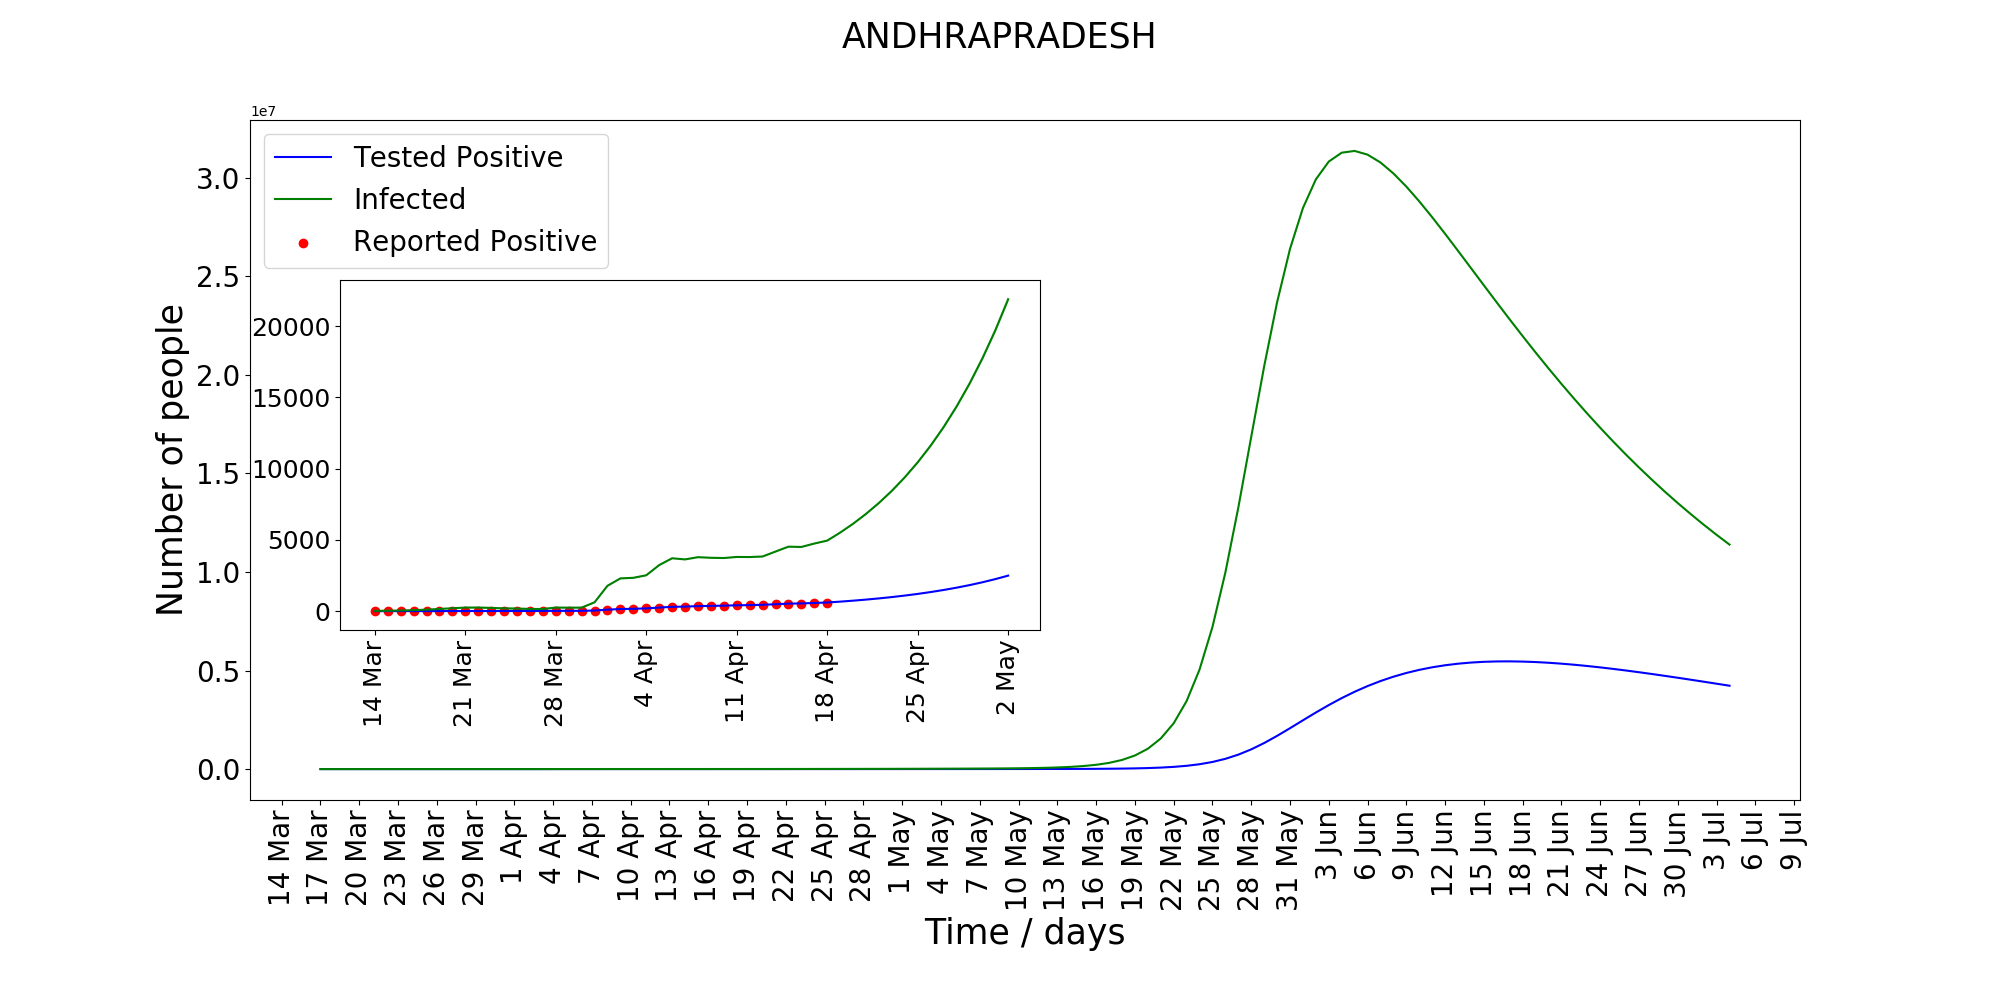
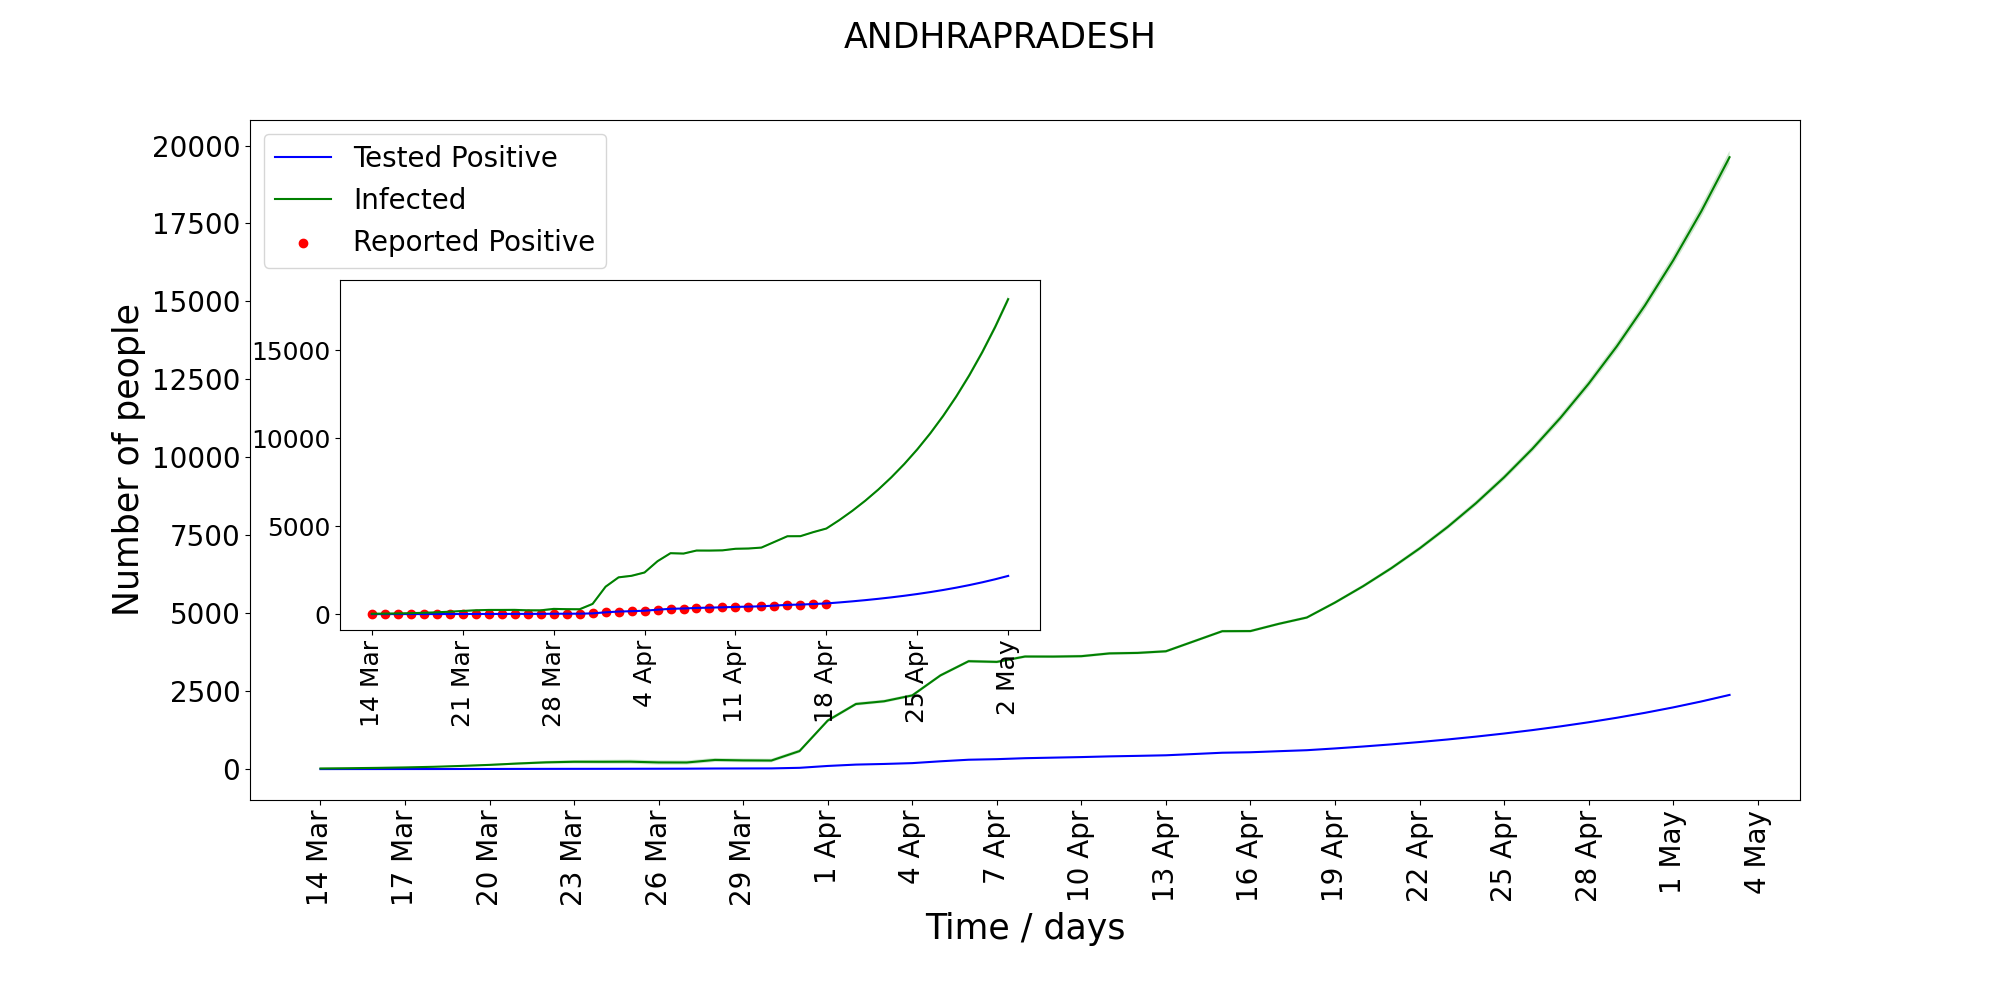
Intervention 2 seems to be done for now

diff --git a/Model.py b/Model.py
@@ -113,8 +113,8 @@ class IndiaModel () :
             contactOther = np.loadtxt('./Data/home.csv', delimiter=',')
             contactTotal = np.loadtxt('./Data/total.csv', delimiter=',')
 
-            changeContactStart = Date('10 Nov')
-            changeContactEnd   = Date('11 Nov')
+            changeContactStart = self.lockdownEnd
+            changeContactEnd   = Date('1 Jul')
 
             changeKt = Date('10 Nov')
             deltaKt  = 10
@@ -122,6 +122,8 @@ class IndiaModel () :
             beta, lockdownLeakiness, tf1, tf2, tf3  = self.betas[state]
 
             params = {
+                'stateName'         : state,
+                'stateId'           : idx,
                 'tl'                : lockdownBegin, 
                 'te'                : lockdownEnd,
                 'k0'                : partial(bumpFn, ti=lockdownBegin, tf=lockdownEnd, x1=0, x2=1/7),
@@ -137,7 +139,8 @@ class IndiaModel () :
                 'f'                 : 0.2,
                 'lockdownLeakiness' : lockdownLeakiness,
                 'contactHome'       : partial(bumpFn, ti=changeContactStart, tf=changeContactEnd, x1=contactHome, x2=0.5*contactHome),
-                'contactTotal'      : partial(bumpFn, ti=changeContactStart, tf=changeContactEnd, x1=contactTotal, x2=0.5*contactTotal),
+                'contactWork'      	: partial(bumpFn, ti=changeContactStart, tf=changeContactEnd, x1=contactWork, x2=0.5*contactWork),
+                'contactOther'      : partial(bumpFn, ti=changeContactStart, tf=changeContactEnd, x1=contactOther, x2=0.5*contactOther),
                 'contactSchool'     : contactSchool,
                 'bins'              : 3,
                 'adultBins'         : [1],
@@ -183,6 +186,10 @@ class SpaxireAgeStratified () :
         self.inChannel = inChannel
         self.outChannel = outChannel
 
+        self.stateName = params['stateName']
+        self.stateId = params['stateId']
+        self.isInHeterogenousLockdown = False
+
         self.tl = params['tl']
         self.te = params['te']
 
@@ -204,7 +211,8 @@ class SpaxireAgeStratified () :
         self.lockdownLeakiness = params['lockdownLeakiness']
 
         self.contactHome = params['contactHome']
-        self.contactTotal = params['contactTotal']
+        self.contactWork = params['contactWork']
+        self.contactOther = params['contactOther']
         self.contactSchool = params['contactSchool']
     
         self.bins = params['bins'] # Age bins
@@ -292,20 +300,30 @@ class SpaxireAgeStratified () :
         s, e, a, i, xs, xe, xa, xi, p, r = x.reshape((-1, self.bins))
         self.Nbar = s + e + a + i + xs + xe + xa + xi + p + r
 
-        ####################################### CHANGE PARAMETERS IF THINGS ARE NUMBER OF POSITIVES IS ABOVE A THRESHOLD ########################################
-        if p.sum() > self.Nbar.sum() * 0.002:
-            # Make whatever changes are needed here
-            print(self.parentModel.transportMatrix.shape)
-        ##################################################################################################################################
-        # convert depending on usage of this function
+
         if module == torch : 
-            ct   = torch.from_numpy(self.contactTotal(t))
+            cw   = torch.from_numpy(self.contactWork(t))
+            co   = torch.from_numpy(self.contactOther(t))
             ch   = torch.from_numpy(self.contactHome(t))
             cs   = torch.from_numpy(self.contactSchool)
         else : 
-            ct = self.contactTotal(t)
+            cw = self.contactWork(t)
+            co = self.contactOther(t)
             ch = self.contactHome(t)
             cs = self.contactSchool
+
+        ct = cw + co + ch + cs
+
+        ####################################### CHANGE PARAMETERS IF THINGS ARE NUMBER OF POSITIVES IS ABOVE A THRESHOLD ########################################
+        if p.sum() > self.N.sum() * 0.02 and delta_t > Date('3 May') - startDate:
+            # Make whatever changes are needed here
+            ct = 0.4 * (cw + co + ch)
+            self.parentModel.transportMatrix[stateId, :] = 0.
+            self.parentModel.transportMatrix[:, stateId] = 0.
+            self.totalOut = 0.
+            self.isInHeterogenousLockdown = True
+        ##################################################################################################################################
+        # convert depending on usage of this function
 
 
         b3 = 0.002 * self.lockdownLeakiness
